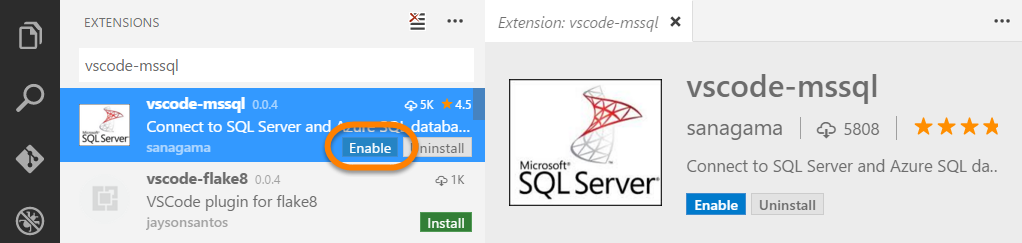
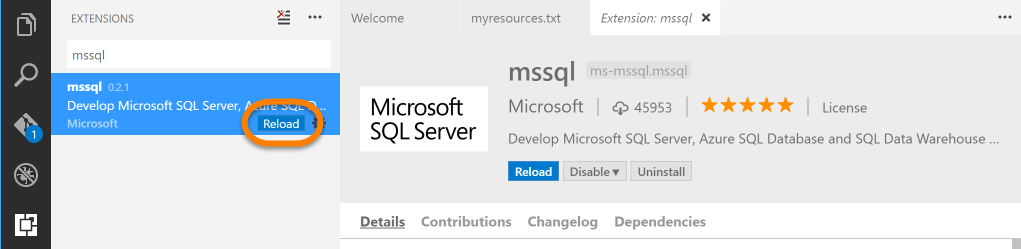
Updating lab -Creating sql db

diff --git a/HOLs/readme.md b/HOLs/readme.md
@@ -936,6 +936,7 @@ We'll start out creating the ***&lt;name&gt;sql*** Azure SQL Server, and the ***
     - Subscription - **Choose the subscription you used for your Azure IoT Hub**
     - Resource group - Choose "**Use existing**" and select the ***&lt;name&gt;group*** we created when provising the Azure IoT Hub.
     - Select source - "**Blank database**"
+    - Want to use SQL elastic pool? - "**Not Now**" (this option was made available after the screen show below was captured).  Just make sure to not enable it if the option is visible for you.
     - Collation - Leave it at the default "**SQL_Latin1_General_CP1_CI_AS**"
 
     ![New SQL Database Properties](images/10020-NewSqlDbProperties.png)
@@ -947,7 +948,7 @@ We'll start out creating the ***&lt;name&gt;sql*** Azure SQL Server, and the ***
     - Password - **P@ssw0rd**
     - Confirm Password - **P@ssw0rd**
     - Location - **Select the same region you provisioned the Azure IoT Hub into**
-    - Create V12 server - **Yes**
+    - Create V12 server - **Yes** (if it is present)
     - Allow azure services to access server: **Checked**
 
     ![New SQL Server Properties](images/10030-NewSQLServerProperites.png)
@@ -986,23 +987,23 @@ We'll start out creating the ***&lt;name&gt;sql*** Azure SQL Server, and the ***
 
     ![HOLs Folder Open in VS Code](images/10090-HOLsFolderInCode.png)
 
-1. Then click the icon to open the "**Extensions**" panel, and in the search box at the top type **vscode-mssql**, and in the search results, click the "**Install**" button for the "**vscode-mssql** extension (by sanagama)
+1. Then click the icon to open the "**Extensions**" panel, and in the search box at the top type "**mssql**", and in the search results, click the "**Install**" button for the "**mssql** extension.
 
-    > **Note**: Extensions provide a powerful way to expand the capabilities of Visual Studio Code.  There is a rich ecosystem of extensions developed by Microsoft as well as a worldwide community of developers that you can use in "**Visual Studio Code**".  The "**vscode-mssql**" extension we are installing here allows you to connect to your "**Azure SQL Database**" from with "**Visual Studio Code**" and execute SQL statements.
+    > **Note**: Extensions provide a powerful way to expand the capabilities of Visual Studio Code.  There is a rich ecosystem of extensions developed by Microsoft as well as a worldwide community of developers that you can use in "**Visual Studio Code**".  The "**mssql**" extension we are installing here allows you to connect to your "**Azure SQL Database**" from with "**Visual Studio Code**" and execute SQL statements.
 
-    ![Install the vscode-mssql Extension](images/10100-InstallVsCodeMssql.png)
+    ![Install the mssql Extension](images/10100-InstallVsCodeMssql.png)
 
-1. Once installed, click the "**Enable**" button to enable the extension, and when prompted click "**OK**" to allow VS Code to restart:
+1. Once installed, click the "**Reload**" button to enable the extension, and when prompted click "**Reload Window**" to allow VS Code to restart:
 
     ![Enable Extension](images/10110-EnableExtension.png)
 
     ![Confirm Restart](images/10120-ConfirmVSCodeRestart.png)
 
-1. Next, we need to tell **vscode-mssql** how to connect to our Azure SQL Server and Database.  To do so, from the menu bar, select "**File**" | "**Preferences**" | "**Workspace Settings**"
+1. Next, we need to tell the **mssql** extension how to connect to our Azure SQL Server and Database.  To do so, from the menu bar, select "**File**" | "**Preferences**" | "**Settings**"
 
     ![Open Workspace Settings](images/10130-OpenWorkspaceSettings.png)
 
-1. Two files will open: **Default Settings** and **settings.json**.  The "**Default Settings**" are just there to show you what the defaults, we can ignore them, infact you can close the "**Default Settings**" tab is you wish.  Locate the connection properties for the SQL Server connection in the file:
+1. Then, in the **settings.json** file, click the "**Workspace Settings**" header.  Locate the connection properties for the SQL Server connection in the file:
 
     ![Connection Properties](images/10140-SQLConnectionProperties.png)
 
@@ -1012,7 +1013,15 @@ We'll start out creating the ***&lt;name&gt;sql*** Azure SQL Server, and the ***
 
     Save and close the **settings.json** file when you are done.
 
-1. Click on the icon for the "**Explorer**" panel, select the "**SQL Database Scripts\Create SQL Database Objects.sql**" file.  This script creates the following objects:
+1. Click on the icon for the "**Explorer**" panel, select the "**SQL Database Scripts\Create SQL Database Objects.sql**" file.  If this is the first "**.sql**" file you have opened since installing the "**mssql**" extension, you may see some the "**OUTPUT**" panel appear to show the output of the sql tools initialization. 
+
+    ![SQL Tools Initialization](images/10147-SQLToolsInitialization.png)
+
+1. You may also be prompted to view the release notes, and finally on Windows, you may geta  firewall prompt.  Make sure to confirm the firewall prompt, and to enable it on all network types:
+
+    ![Windows Firewall Prompt](images/10148-FirewallPrompt.png)
+
+1. The "**Create SQL Database Objects.sql**" script creates the following objects:
 
     - The "**dbo.Measurement**" table.  This table is structured to match the data being sent by the Node-RED flow Intel NUC.  It has the following columns:
         - "**MeasurementID**" is a dynamically generated ID for each row in the database.
@@ -1024,7 +1033,9 @@ We'll start out creating the ***&lt;name&gt;sql*** Azure SQL Server, and the ***
 
     ![Open SQL Script](images/10150-OpenCreateScript.png)
 
-1. Make sure the "**Create SQL Database Objects.sql**" file is the currently active file in VS Code, then press the "**F1**" key (or **Ctrl+Shift+P**) to open the "**Command Palette**", and in the box, type "**&gt;MSSQL: Connect to a database**" (don't forget the **&gt;**) and press "**Enter**" (Note you could also have used the **Ctrl-Shift-C** keyboard shortcut while the SQL script file was active).
+1. Make sure the "**Create SQL Database Objects.sql**" file is the currently active file in VS Code, then press the "**F1**" key (or **Ctrl+Shift+P**) to open the "**Command Palette**", and in the box, type "**&gt;MS SQL: Connect**" (don't forget the **&gt;**) and press "**Enter**" (Note you could also have used the **Ctrl-Shift-C** keyboard shortcut while the SQL script file was active).
+
+    ![MS SQL Connect](images/10155-MSSQLConnect.png)
 
     ![Select Connection](images/10160-SelectConnection.png)
 
@@ -1038,11 +1049,7 @@ We'll start out creating the ***&lt;name&gt;sql*** Azure SQL Server, and the ***
 
     ![Run the SQL Script](images/10190-RunSQLScript.png)
 
-1. The "**MSSQL Output**" window will open, and on its "**Messages**" tab you should see that no errors occurred.  The "**(0 Row(s) affected)** messages are from the test queries on the objects we just created.  Since there is no data in them, no rows are returned.
-
-    ![MSSQL Output](images/10200-SQLMessages.png)
-
-1. You can use the "**Results**" tab to view the results from the three "**select**" statements in the script.  However, since there is no data in the "**dbo.Measurement**" table yet, there aren't any rows retrieved.
+1. The "**Results: Create SQL Database Objects.sql**" tab will open, display the results of the script exectution.  You can close the "**Results: Create SQL Database Objects.sql**" and "**Create SQL Database Objects.sql**" tabs when you are done.
 
     ![SQL Results](images/10210-SQLResults.png)
 
